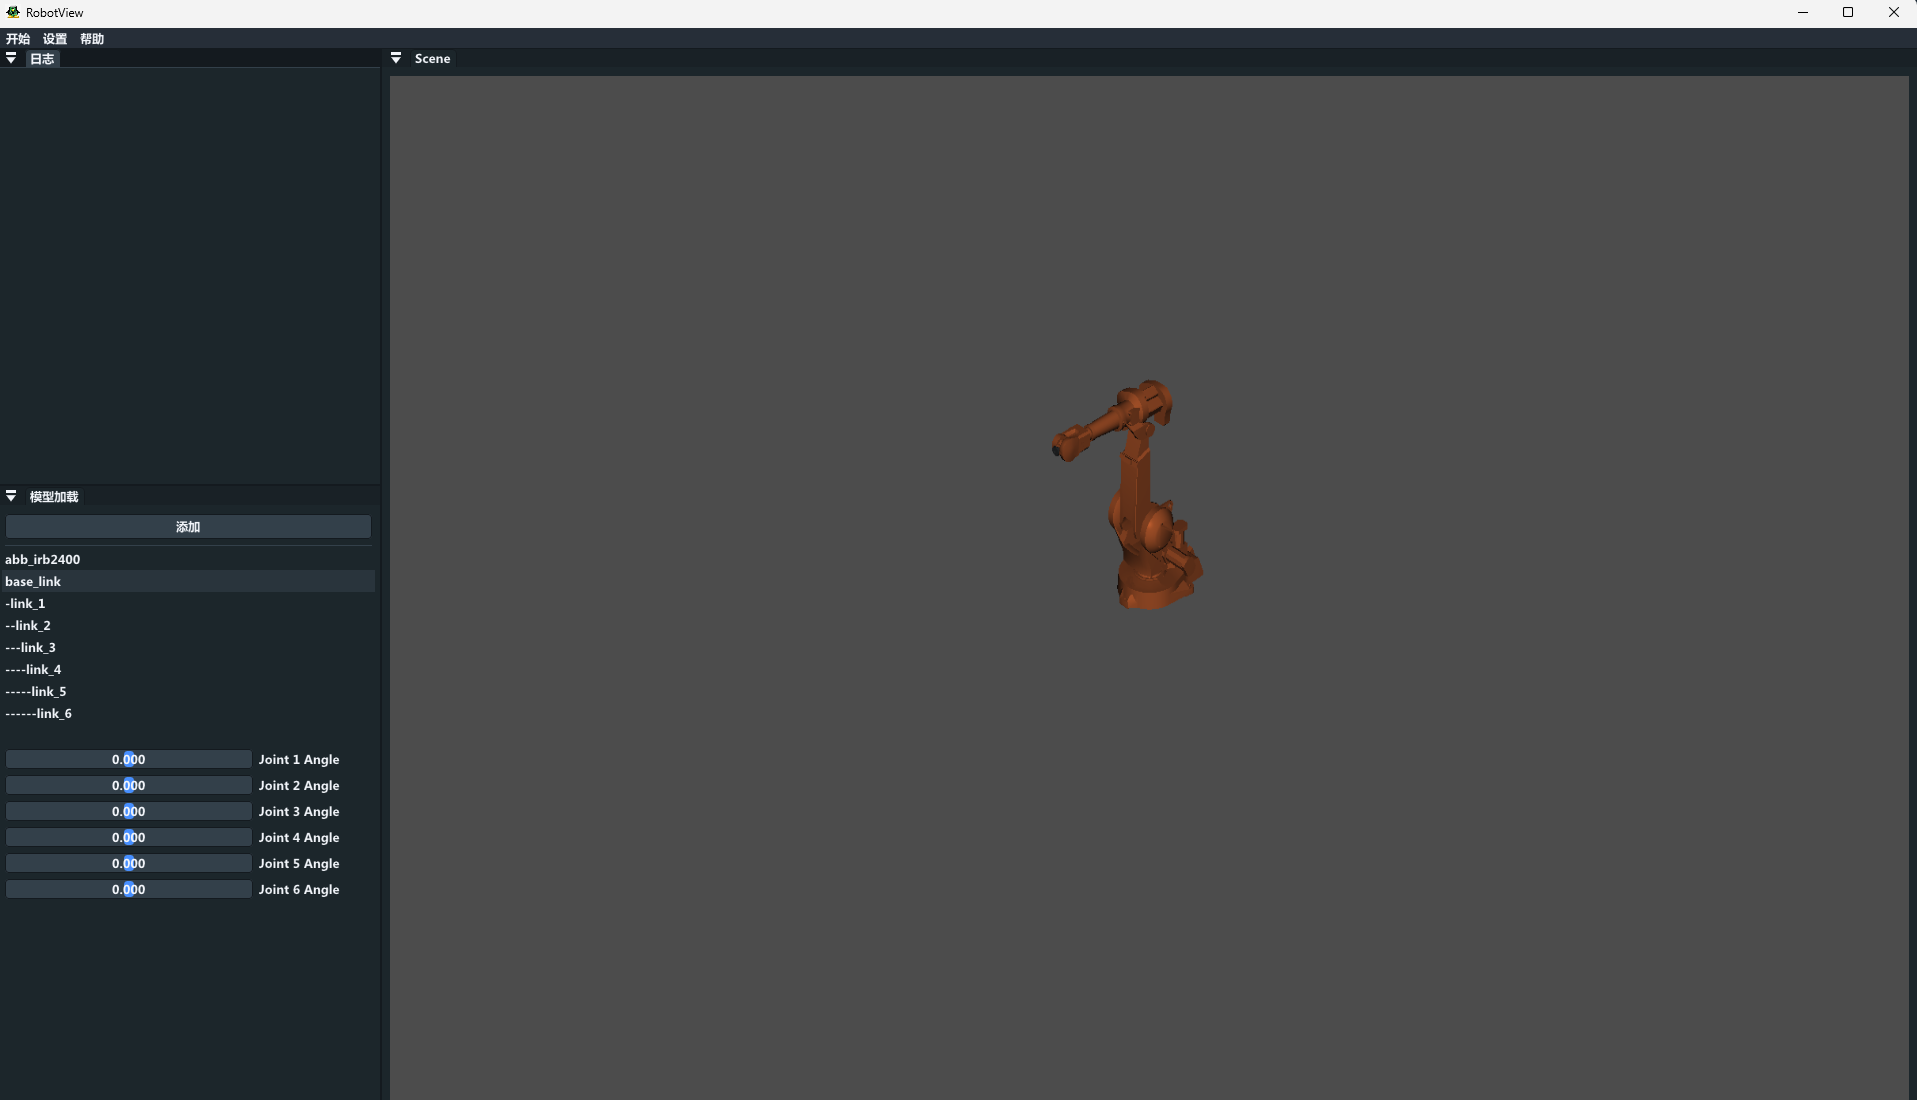
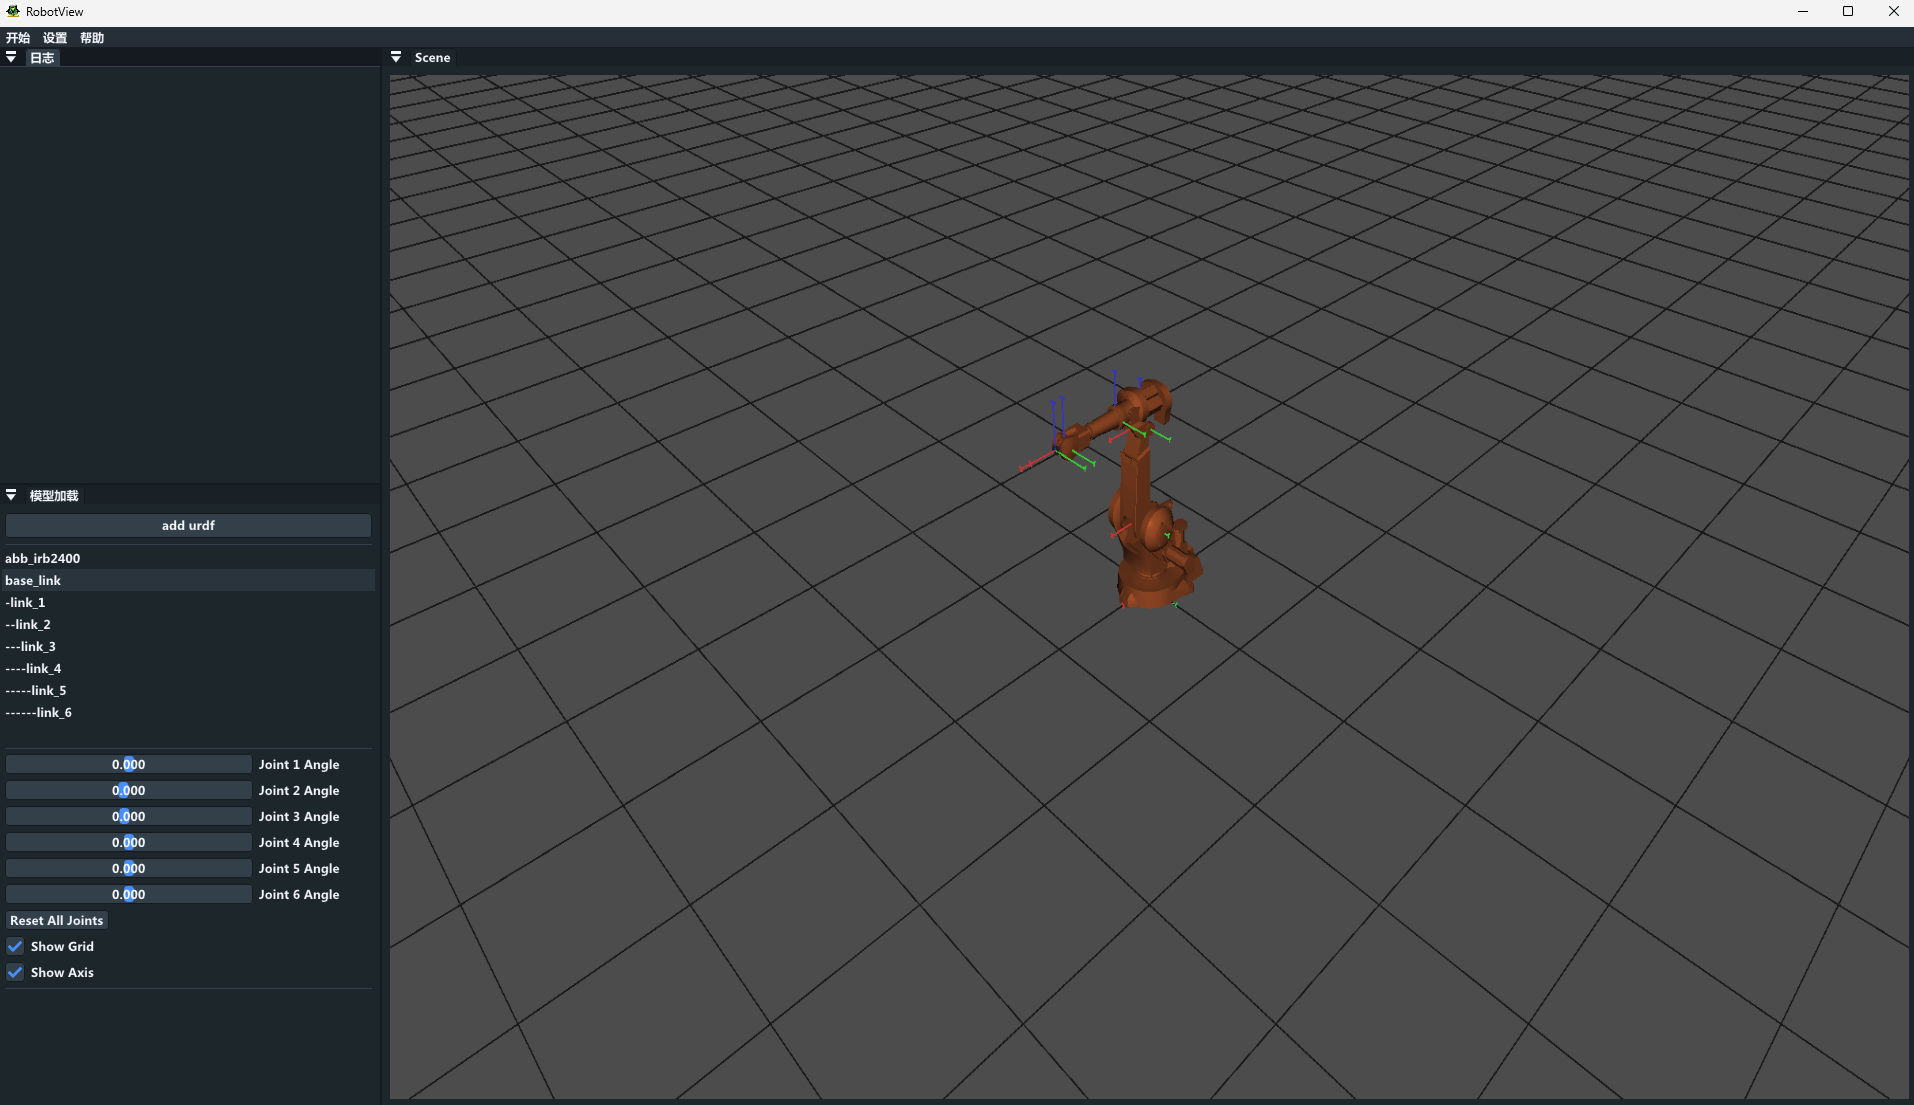
add axis grid show

diff --git a/src/Core/SceneRobot.cc b/src/Core/SceneRobot.cc
@@ -13,6 +13,12 @@ SceneRobot::SceneRobot(Robot *robot)
     : m_robot(robot)
 {
     Instance = this;
+
+    GenerateGrid(slices, slices, 1, glm::vec3(0.1f, 0.1f, 0.1f));
+    m_girdRender = new Renderer(m_verticesGird, m_indicesGird, m_emptyTexture);  // reuse
+
+    GenerateAxis(0.3);
+    m_axisRender = new Renderer(m_verticesAxis, m_indicesAxis, m_emptyTexture);  // reuse
 }
 
 SceneRobot::~SceneRobot()
@@ -24,4 +30,132 @@ SceneRobot *SceneRobot::GetInstance() { return Instance; }
 void SceneRobot::UpdateStatus(Shader &shader, Camera &camera)
 {
     m_robot->updateJointAngles(shader, camera);
+}
+
+void SceneRobot::DrawGrid(Shader &shader, Camera &camera)
+{
+    shader.Bind();
+    shader.SetUniformMat4f("model", m_modelPlatform);
+    shader.SetUniformMat4f("projection", camera.GetProjMatrix());
+    shader.SetUniformMat4f("view", camera.GetViewMatrix());
+    shader.SetUniformVec3f("camPos", camera.GetEye());
+    m_girdRender->DrawLine(shader);
+}
+
+void SceneRobot::GenerateGrid(int rows, int cols, float spacing, glm::vec3 color)
+{
+    // Calculate the center position of the grid
+    float centerX = -0.5f * cols * spacing;
+    float centerY = -0.5f * rows * spacing;
+
+    // Calculate the number of vertices and indices
+    int numVertices = (rows + 1) * (cols + 1);
+    int numIndices = rows * cols * 6;
+
+    // Reserve space for vertices and indices
+    m_verticesGird.reserve(numVertices);
+    m_indicesGird.reserve(numIndices);
+
+    // Generate vertex data
+    for (int i = 0; i <= rows; ++i)
+    {
+        for (int j = 0; j <= cols; ++j)
+        {
+            float x = centerX + static_cast<float>(j) * spacing;
+            float y = centerY + static_cast<float>(i) * spacing;
+            float z = 0.0f; // You can adjust the height of the grid
+
+            m_verticesGird.push_back(Vertex{glm::vec3(x, y, z), color,
+                                            glm::vec3(0.0f, 0.0f, 1.0f), glm::vec2(0.0f)});
+        }
+    }
+
+    // Generate index data
+    for (int i = 0; i < rows; ++i) {
+        for (int j = 0; j < cols; ++j) {
+            int topLeft = i * (cols + 1) + j;
+            int topRight = topLeft + 1;
+            int bottomLeft = (i + 1) * (cols + 1) + j;
+            int bottomRight = bottomLeft + 1;
+
+            // Add indices for two triangles
+            m_indicesGird.push_back(topLeft);
+            m_indicesGird.push_back(topRight);
+            m_indicesGird.push_back(bottomLeft);
+
+            m_indicesGird.push_back(bottomLeft);
+            m_indicesGird.push_back(topRight);
+            m_indicesGird.push_back(bottomRight);
+        }
+    }
+}
+
+void SceneRobot::DrawAxis(Shader &shader, Camera &camera)
+{
+    shader.Bind();
+    for (auto jointsObj : m_robot->getJointObjects()) {
+        shader.SetUniformMat4f("model", m_robot->calTransMat(jointsObj));
+        shader.SetUniformMat4f("projection", camera.GetProjMatrix());
+        shader.SetUniformMat4f("view", camera.GetViewMatrix());
+        shader.SetUniformVec3f("camPos", camera.GetEye());
+        m_axisRender->DrawLine(shader);
+    }
+}
+
+void SceneRobot::GenerateAxis(float length)
+{
+    const float charWidth = length / 30.0f;
+    const float charHeight = length / 20.0f;
+    const float charShift = 1.04f * length;
+
+    // Define colors for each axis
+    glm::vec3 color_x(0.8f, 0.2f, 0.2f); // Red for X-axis
+    glm::vec3 color_y(0.2f, 0.8f, 0.2f); // Green for Y-axis
+    glm::vec3 color_z(0.2f, 0.2f, 0.8f); // Blue for Z-axis
+
+
+    // X-axis vertices and indices
+    m_verticesAxis.push_back(Vertex{glm::vec3(0.0f, 0.0f, 0.0f), color_x}); // Red
+    m_verticesAxis.push_back(Vertex{glm::vec3(length, 0.0f, 0.0f), color_x}); // Red
+
+
+    // Y-axis vertices and indices
+    m_verticesAxis.push_back(Vertex{glm::vec3(0.0f, 0.0f, 0.0f), color_y}); // Green
+    m_verticesAxis.push_back(Vertex{glm::vec3(0.0f, length, 0.0f), color_y}); // Green
+
+
+    // Z-axis vertices and indices
+    m_verticesAxis.push_back(Vertex{glm::vec3(0.0f, 0.0f, 0.0f), color_z}); // Blue
+    m_verticesAxis.push_back(Vertex{glm::vec3(0.0f, 0.0f, length), color_z}); // Blue
+
+    
+    // X-axis char
+    m_verticesAxis.push_back(Vertex{glm::vec3(charShift, charWidth, -charHeight), color_x}); 
+    m_verticesAxis.push_back(Vertex{glm::vec3(charShift, -charWidth, charHeight), color_x}); 
+    m_verticesAxis.push_back(Vertex{glm::vec3(charShift, -charWidth, -charHeight), color_x}); 
+    m_verticesAxis.push_back(Vertex{glm::vec3(charShift, charWidth, charHeight), color_x}); 
+
+
+    // Y-axis char
+    m_verticesAxis.push_back(Vertex{glm::vec3(charWidth, charShift, charHeight), color_y});
+    m_verticesAxis.push_back(Vertex{glm::vec3(0.0f, charShift, 0.0f), color_y}); 
+    m_verticesAxis.push_back(Vertex{glm::vec3(-charWidth, charShift, charHeight), color_y}); 
+    m_verticesAxis.push_back(Vertex{glm::vec3(0.0f, charShift, 0.0f), color_y}); 
+    m_verticesAxis.push_back(Vertex{glm::vec3(0.0f, charShift, 0.0f), color_y}); 
+    m_verticesAxis.push_back(Vertex{glm::vec3(0.0f, charShift, -charHeight), color_y}); 
+
+
+    // Z-axis char
+    m_verticesAxis.push_back(Vertex{glm::vec3(-charWidth, charHeight, charShift), color_z}); 
+    m_verticesAxis.push_back(Vertex{glm::vec3(charWidth, charHeight, charShift), color_z}); 
+    m_verticesAxis.push_back(Vertex{glm::vec3(charWidth, charHeight, charShift), color_z}); 
+    m_verticesAxis.push_back(Vertex{glm::vec3(-charWidth, -charHeight, charShift), color_z}); 
+    m_verticesAxis.push_back(Vertex{glm::vec3(-charWidth, -charHeight, charShift), color_z}); 
+    m_verticesAxis.push_back(Vertex{glm::vec3(charWidth, -charHeight, charShift), color_z}); 
+
+    for (int i = 0; i < m_verticesAxis.size(); i++) {
+        m_indicesAxis.push_back(i);
+    }
+    
+    m_axisRender = new Renderer(m_verticesAxis, m_indicesAxis, m_emptyTexture);
 }

diff --git a/src/Ui/SceneRobotLayer.cc b/src/Ui/SceneRobotLayer.cc
@@ -26,28 +26,30 @@ void SceneRobotLayer::OnAttach()
     m_camera = new Camera(eye, lookat, upVector, width, height);
     Application::GetInstance()->InitCamera(m_camera, m_frameBuffer);
 
-    
     m_robot = new Robot();
     m_senceRobot = new SceneRobot(m_robot);
 
     m_robot->loadURDF("res/robot/abb_irb2400_support/urdf/", "res/robot/abb_irb2400_support/urdf/irb2400.urdf");
+
+    showAxis = true;
+    showGrid = true;
 }
 
 void SceneRobotLayer::OnUpdate(float ts)
 {
-    ImGuizmo::SetOrthographic(false);
-    ImGuizmo::BeginFrame();
-
-
     m_camera->UpdateProjMatrix();
     m_camera->UpdateViewMatrix();
     m_proj = m_camera->GetProjMatrix();
     m_view = m_camera->GetViewMatrix();
 
     m_frameBuffer->Bind();
-
+    
     m_senceRobot->UpdateStatus(*m_ColorLightShader, *m_camera);
-
+    if (showGrid)
+        m_senceRobot->DrawGrid(*m_ColorShader, *m_camera);
+    if (showAxis)
+        m_senceRobot->DrawAxis(*m_ColorShader, *m_camera);
+        
     m_frameBuffer->Unbind();
 
     ShowModelSence();
@@ -64,6 +66,7 @@ void SceneRobotLayer::OnDetach()
     delete m_ColorLightShader;
     delete m_ColorShader;
     delete m_senceRobot;
+    delete m_robot;
 }
 
 void SceneRobotLayer::OnUIRender() {}
@@ -90,7 +93,7 @@ void SceneRobotLayer::ShowModelLoad()
     ImGui::Begin(u8"模型加载");
     ImVec2 contentSize = ImGui::GetContentRegionAvail();
     const float buttonWidth = contentSize.x;
-    if (ImGui::Button(u8"添加", ImVec2(buttonWidth, 25)))
+    if (ImGui::Button(u8"add urdf", ImVec2(buttonWidth, 25)))
     {
         ImGui::NewLine();
         OPENFILENAME ofn;
@@ -160,8 +163,7 @@ void SceneRobotLayer::ShowModelLoad()
     }
 
     ImGui::NewLine();
-    
-    
+    ImGui::Separator(); 
     for (int i = 1; i < m_robot->getJointObjects().size(); ++i) {
         ObjectStructure *jointObject = m_robot->getJointObjects()[i];
 
@@ -175,6 +177,20 @@ void SceneRobotLayer::ShowModelLoad()
             }
         }
     }
+
+    if (ImGui::Button("Reset All Joints")) {
+        for (int i = 1; i < m_robot->getJointObjects().size(); ++i) {
+            ObjectStructure *jointObject = m_robot->getJointObjects()[i];
+            if (jointObject->joint_type == ObjectStructure::JointType::REVOLUTE) {
+                float defaultAngle = jointObject->limitAngle.offort_angle; 
+                jointObject->setAngle(defaultAngle);
+            }
+        }
+    }
+    ImGui::Checkbox("Show Grid", &showGrid);
+    ImGui::Checkbox("Show Axis", &showAxis);
+
+    ImGui::Separator();
     ImGui::End();
 }
 

diff --git a/src/Graphics/Objects/Object.h b/src/Graphics/Objects/Object.h
@@ -25,9 +25,10 @@ struct ObjectStructure
 	std::string name;
 	glm::vec3 modelColor = glm::vec3(0.5f, 0.5f, 0.5f);
 	glm::vec3 modelLineColor = glm::vec3(0.2f, 0.2f, 0.2f);
-	glm::mat4 objModel = glm::mat4(1.0f);
-	glm::vec3 objRotation = glm::vec3(0.0f);
-	glm::vec3 objTranslation = glm::vec3(0.0f);
+
+	glm::mat4 objModel = glm::mat4(1.0f);       // not ueed same to joint_transmat
+	glm::mat3 objRotation = glm::mat3(0.0f);    // update in updateJointAngles
+	glm::vec3 objTranslation = glm::vec3(0.0f); // update in updateJointAngles
 
     int joint_type;
     glm::mat4 joint_transmat; // 机械臂 model
@@ -91,8 +92,8 @@ struct ObjectStructure
 
     void setAngle(float angle) {
         curAngle = angle;
-        glm::vec3 translation = glm::vec3(this->joint_transmat[3]);              // 获取原有的平移部分
-        glm::mat4 translationMat = glm::translate(glm::mat4(1.0f), translation); // 创建平移矩阵
+        // objTranslation = glm::vec3(this->joint_transmat[3]); // already update in updateJointAngles
+        glm::mat4 translationMat = glm::translate(glm::mat4(1.0f), objTranslation); // 创建平移矩阵
         glm::mat4 rotationMat = glm::rotate(glm::mat4(1.0f), glm::radians(angle), axis);
         this->joint_transmat = translationMat * rotationMat;
     }

diff --git a/src/Core/SceneRobot.h b/src/Core/SceneRobot.h
@@ -12,8 +12,25 @@ public:
     static SceneRobot *GetInstance();
 
     void UpdateStatus(Shader &shader, Camera &camera);
+    void DrawGrid(Shader &shader, Camera &camera);
+    void DrawAxis(Shader &shader, Camera &camera);
 
 private:
+    float m_platfromSize = 100.0f;
+    int slices = m_platfromSize;
+    glm::mat4 m_modelPlatform = glm::mat4(1.0f);
+    
+    std::vector<Texture> m_emptyTexture;
+    std::vector<Vertex> m_verticesGird;
+    std::vector<GLuint> m_indicesGird;
+    Renderer *m_girdRender;
+    void GenerateGrid(int rows, int cols, float spacing, glm::vec3 color);
+
+    std::vector<Vertex> m_verticesAxis;
+    std::vector<GLuint> m_indicesAxis;
+    Renderer *m_axisRender;
+    void GenerateAxis(float length);
+
     Robot *m_robot;
 };
 

diff --git a/src/Graphics/Objects/Robot.cc b/src/Graphics/Objects/Robot.cc
@@ -23,7 +23,7 @@ void Robot::Draw(Shader& shader, GLenum mode) {
     }
 }
 
-glm::mat4 calTransMat (ObjectStructure *link)
+glm::mat4 Robot::calTransMat (ObjectStructure *link)
 {    
     if (link->parent == nullptr)
         return link->joint_transmat;
@@ -55,6 +55,10 @@ void Robot::updateJointAngles(Shader &shader, Camera &camera) {
         shader.SetUniformVec3f("lightPos", lightPos);
         shader.SetUniformVec3f("camPos", camera.GetEye());
         m_Joints[i]->Draw(shader, GL_FILL);
+
+        // update status
+        m_JointObjects[i]->objTranslation = m_JointObjects[i]->joint_transmat[3];
+        m_JointObjects[i]->objRotation = glm::mat3(m_JointObjects[i]->joint_transmat);
     }
 }
 

diff --git a/src/Ui/SceneRobotLayer.h b/src/Ui/SceneRobotLayer.h
@@ -10,6 +10,7 @@
 #include "../Graphics/Renderer/Shader.h"
 
 class SceneRobotLayer : public Layer {
+public:
 protected:
     virtual void OnAttach() override;
     virtual void OnUpdate(float ts) override;
@@ -32,14 +33,14 @@ private:
     float m_height;
     int m_selected = 0;
 
-    bool m_isCameraFllowObject = false;
-
+    Robot *m_robot;
+    SceneRobot *m_senceRobot;
+    bool showGrid;
+    bool showAxis;
+ 
     void ShowModelSence();
     void ShowModelLoad();
     void convertPath(char *path);
- 
-    Robot *m_robot;
-    SceneRobot *m_senceRobot;
 };
 
 #endif

diff --git a/src/Graphics/Renderer/Renderer.cc b/src/Graphics/Renderer/Renderer.cc
@@ -36,7 +36,6 @@ Renderer::~Renderer()
 void Renderer::DrawLine(Shader& shader)
 {
 	m_vao.Bind();
-	glLineWidth(1.0f);
 	glDrawElements(GL_LINES, m_indices.size(), GL_UNSIGNED_INT, 0);
 	m_vao.Unbind();
     glActiveTexture(GL_TEXTURE0);
@@ -45,7 +44,6 @@ void Renderer::DrawLine(Shader& shader)
 void Renderer::DrawLineStrip(Shader &shader, unsigned int size)
 {
 	m_vao.Bind();
-	glLineWidth(2.0f);
     glDrawArrays(GL_LINE_STRIP, 0, size);
 	m_vao.Unbind();
     glActiveTexture(GL_TEXTURE0);

diff --git a/src/Graphics/Objects/Robot.h b/src/Graphics/Objects/Robot.h
@@ -27,7 +27,7 @@ public:
     std::string getName() { return m_name; }
     std::vector<Model*> &getJoints() { return m_Joints; }
     std::vector<ObjectStructure*> &getJointObjects() { return m_JointObjects; }
-    
+    glm::mat4 calTransMat (ObjectStructure *link);
 private:
     std::string m_name;
     std::string m_token;
